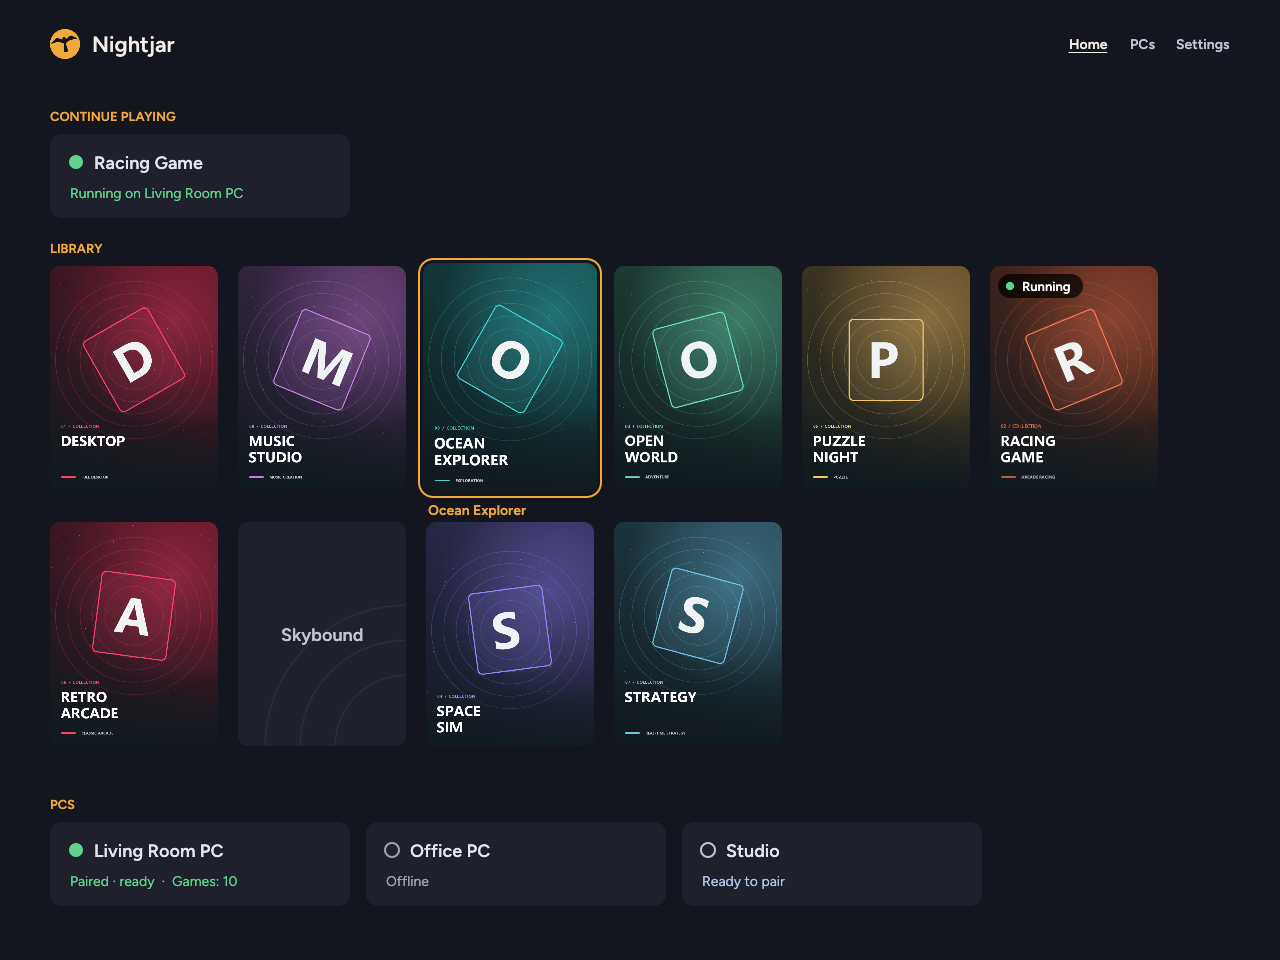
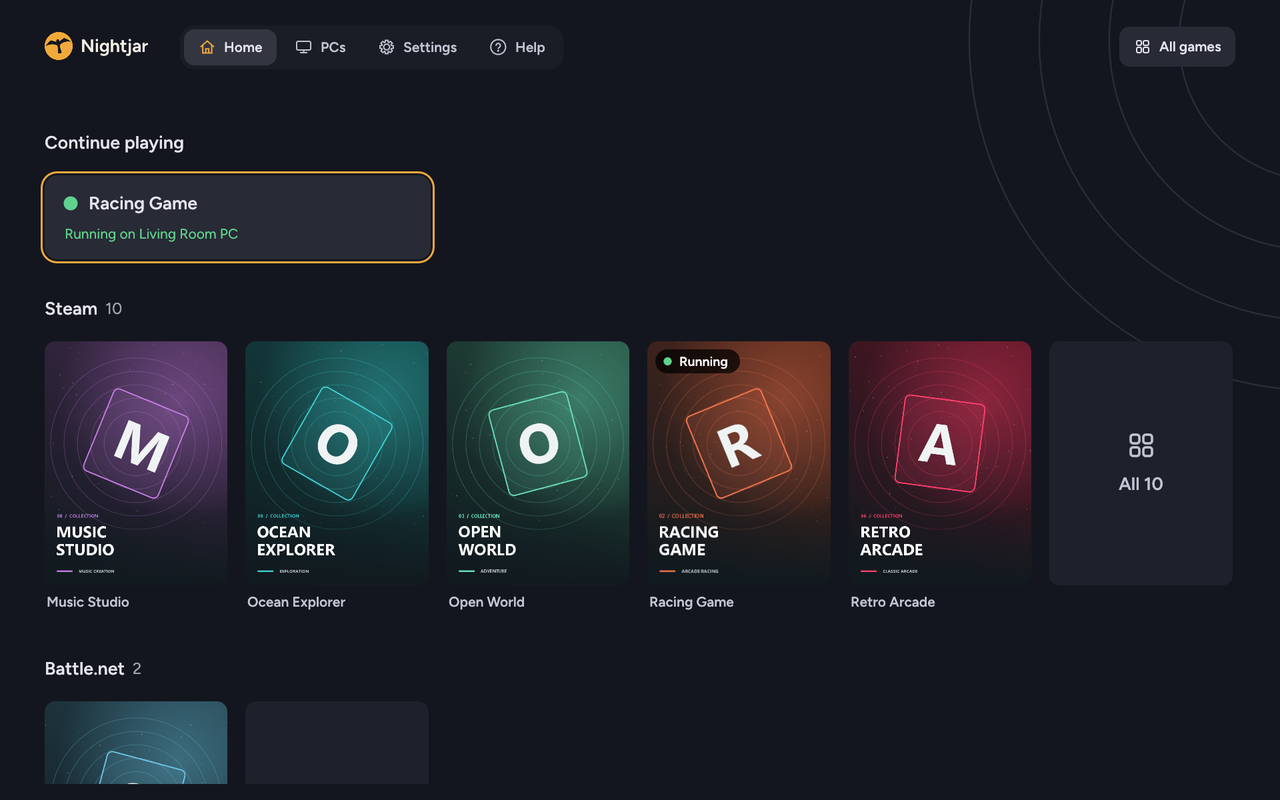
docs(client): README shows the new desktop Home, Settings and Help

diff --git a/client/README.md b/client/README.md
@@ -93,8 +93,18 @@ No accounts, advertising or analytics, and nothing sent to its developers. Video
   <sub><b>A real PC keyboard.</b> Esc, F1 to F12, arrows and sticky modifiers, by touch, controller or TV remote.</sub>
 </td>
 <td valign="top">
-  <img src="docs/assets/shots/desktop-home.png" alt="Nightjar for Windows: Home with the game in progress, a library of games as cover art and the PCs below (demo library)"><br>
-  <sub><b>On the desktop too.</b> The same engine and settings on Windows and Linux, with VRR and beam racing.</sub>
+  <img src="docs/assets/shots/desktop-home.png" alt="Nightjar for Windows: Home with the game in progress and a row of cover art per store, under a top bar with Home, PCs, Settings and Help (demo library)"><br>
+  <sub><b>On the desktop too.</b> The same engine and settings on Windows and Linux, with VRR and beam racing, and a row per store on Home.</sub>
+</td>
+</tr>
+<tr>
+<td valign="top">
+  <img src="docs/assets/shots/desktop-settings.png" alt="Nightjar for Windows: Settings with sections on the left, a search field, and every video setting with a one-line explanation (demo data)"><br>
+  <sub><b>Settings you can find.</b> Sections on the left, a search that works with a controller, and every setting in plain words with a Reset beside each change.</sub>
+</td>
+<td valign="top">
+  <img src="docs/assets/shots/desktop-help.png" alt="Nightjar for Windows: the Help page with getting started in three steps and every keyboard shortcut in the launcher and in a stream (demo data)"><br>
+  <sub><b>Help built in.</b> F1 opens getting started, every keyboard shortcut, your controller's buttons and fixes for common problems.</sub>
 </td>
 </tr>
 </table>
